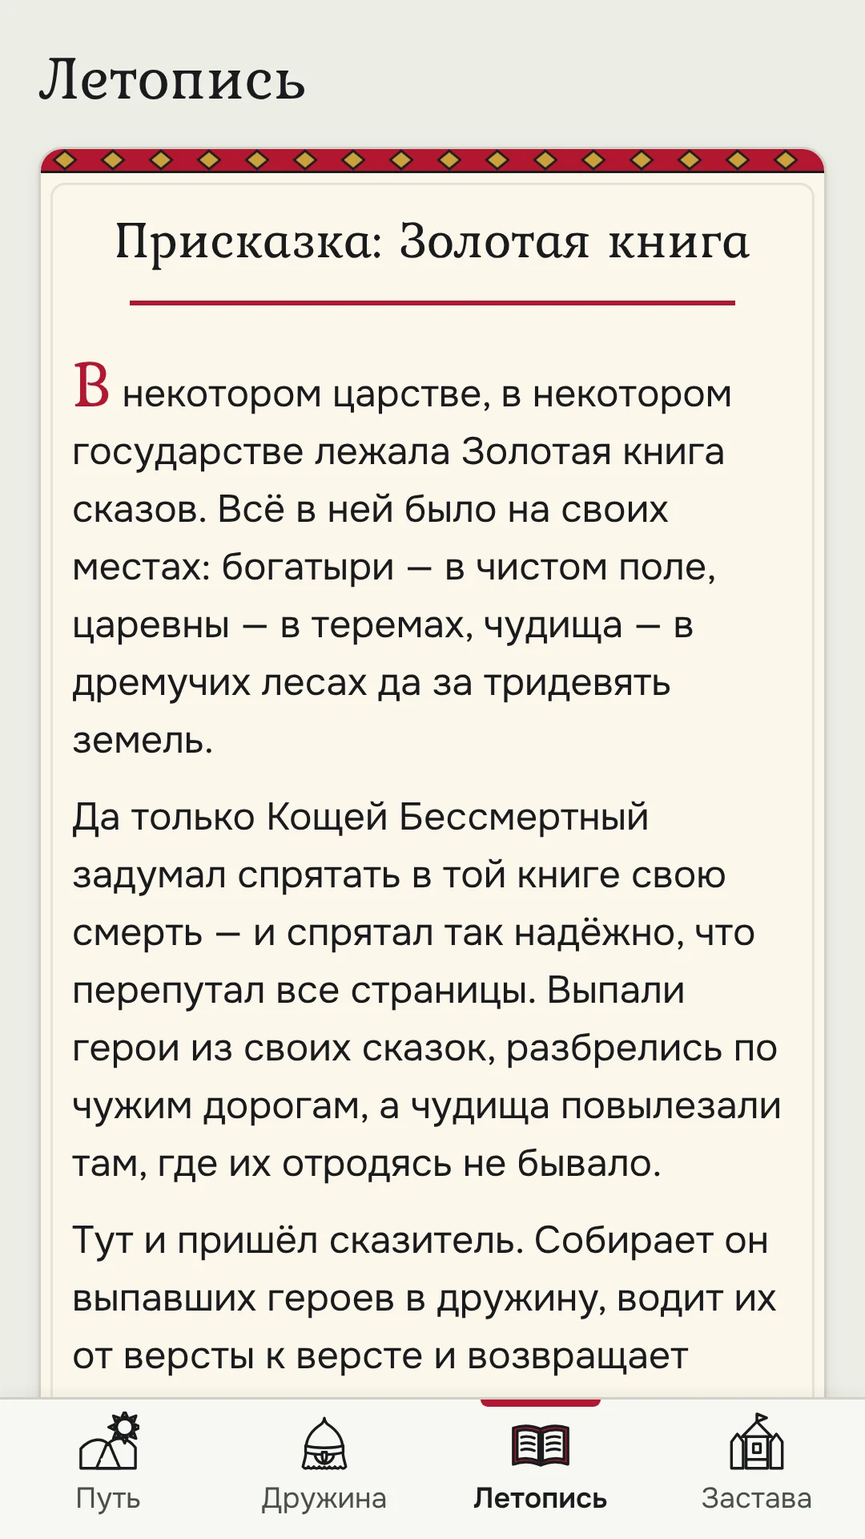
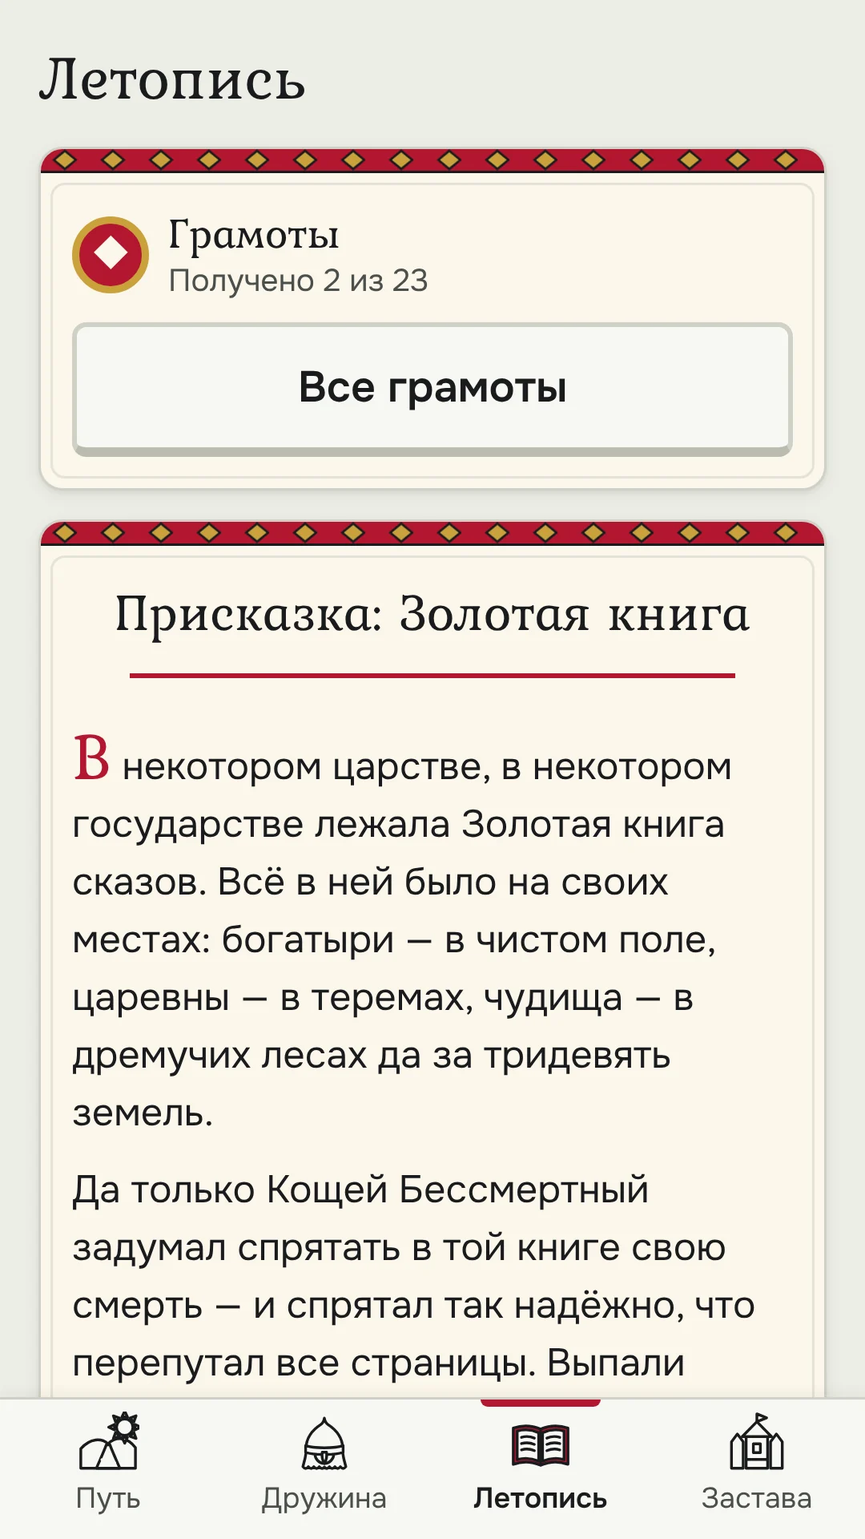
Сайт: обновления игр
= votchina: без изменений
= nardy: без изменений
= anamnez: без изменений
✓ skazy: из Nefeste/skazy@92e29ee — src/en/skazy/index.html, src/skazy/index.html, новые картинки: `skazy-07-riddle-full.webp`, `skazy-07-riddle.webp`, `skazy-09-sadko-full.webp`, `skazy-09-sadko.webp`, изменились картинки: `skazy-05-chronicle-full.webp`, `skazy-05-chronicle.webp`
= uzory: без изменений
= durak: без изменений
= bukvitsa: без изменений

Changed region(s): [[0.0306, 0.125, 0.9778, 0.9062]]

diff --git a/src/skazy/index.html b/src/skazy/index.html
@@ -17,7 +17,7 @@
 <meta property="og:image:width" content="1200">
 <meta property="og:image:height" content="630">
 <meta name="theme-color" content="#ecede6">
-<script type="application/ld+json">{"@context": "https://schema.org", "@type": "VideoGame", "name": "Сказы", "url": "https://gornitsa.games/skazy/", "description": "Неспешная ролевая игра по русским сказкам и былинам: дружина из Ильи Муромца, Василисы и Серого волка, пять минут в день. Героев не выбивают из сундуков.", "genre": "Ролевая игра", "image": "https://gornitsa.games/assets/games/skazy-og.png", "screenshot": ["https://gornitsa.games/assets/games/skazy-01-path-full.webp", "https://gornitsa.games/assets/games/skazy-02-battle-full.webp", "https://gornitsa.games/assets/games/skazy-03-raven-full.webp", "https://gornitsa.games/assets/games/skazy-04-hero-full.webp", "https://gornitsa.games/assets/games/skazy-05-chronicle-full.webp", "https://gornitsa.games/assets/games/skazy-06-zastava-full.webp"], "applicationCategory": "GameApplication", "operatingSystem": "Android", "author": {"@type": "Organization", "@id": "https://gornitsa.games/#studio", "name": "Горница", "url": "https://gornitsa.games/"}, "publisher": {"@type": "Organization", "@id": "https://gornitsa.games/#studio", "name": "Горница", "url": "https://gornitsa.games/"}, "gamePlatform": "Android", "contentRating": "6+", "inLanguage": ["ru"], "offers": {"@type": "Offer", "price": "0", "priceCurrency": "RUB", "description": "начало бесплатно, дальше — одна покупка", "availability": "https://schema.org/InStock", "url": "https://www.rustore.ru/catalog/app/games.gornitsa.skazy"}, "installUrl": "https://www.rustore.ru/catalog/app/games.gornitsa.skazy"}</script>
+<script type="application/ld+json">{"@context": "https://schema.org", "@type": "VideoGame", "name": "Сказы", "url": "https://gornitsa.games/skazy/", "description": "Неспешная ролевая игра по русским сказкам и былинам: дружина из Ильи Муромца, Василисы и Серого волка, пять минут в день. Героев не выбивают из сундуков.", "genre": "Ролевая игра", "image": "https://gornitsa.games/assets/games/skazy-og.png", "screenshot": ["https://gornitsa.games/assets/games/skazy-01-path-full.webp", "https://gornitsa.games/assets/games/skazy-02-battle-full.webp", "https://gornitsa.games/assets/games/skazy-03-raven-full.webp", "https://gornitsa.games/assets/games/skazy-04-hero-full.webp", "https://gornitsa.games/assets/games/skazy-05-chronicle-full.webp", "https://gornitsa.games/assets/games/skazy-06-zastava-full.webp", "https://gornitsa.games/assets/games/skazy-07-riddle-full.webp", "https://gornitsa.games/assets/games/skazy-09-sadko-full.webp"], "applicationCategory": "GameApplication", "operatingSystem": "Android", "author": {"@type": "Organization", "@id": "https://gornitsa.games/#studio", "name": "Горница", "url": "https://gornitsa.games/"}, "publisher": {"@type": "Organization", "@id": "https://gornitsa.games/#studio", "name": "Горница", "url": "https://gornitsa.games/"}, "gamePlatform": "Android", "contentRating": "6+", "inLanguage": ["ru"], "offers": {"@type": "Offer", "price": "0", "priceCurrency": "RUB", "description": "начало бесплатно, дальше — одна покупка", "availability": "https://schema.org/InStock", "url": "https://www.rustore.ru/catalog/app/games.gornitsa.skazy"}, "installUrl": "https://www.rustore.ru/catalog/app/games.gornitsa.skazy"}</script>
 {{HEAD}}
 </head>
 <body>
@@ -52,13 +52,15 @@
     <section class="videos" aria-label="Видео">
       <figure class="video"><a class="video-link" href="https://vkvideo.ru/video-241979396_456239019" target="_blank" rel="noopener" data-vk-oid="-241979396" data-vk-id="456239019" aria-label="Смотреть: Дружина из сказок, бой с чудищем и итог дня"><img src="/assets/games/skazy-feature.webp" width="1024" height="500" alt="" loading="lazy"><span class="video-play" aria-hidden="true"></span></a><figcaption>Дружина из сказок, бой с чудищем и итог дня · <a href="https://vkvideo.ru/video-241979396_456239019" target="_blank" rel="noopener">Открыть в VK Видео ↗</a></figcaption></figure>
     </section>
-    <section class="shots" aria-label="Снимки экрана">
+    <section class="shots shots-4" aria-label="Снимки экрана">
       <figure><a class="shot" href="/assets/games/skazy-01-path-full.webp" data-size="1080x1920"><img src="/assets/games/skazy-01-path.webp" width="540" height="960" alt="Путь: дружина на лесной дороге, из чащи выходит Серый волк, котомка и кнопка боя со словом вещего ворона"></a><figcaption>Путь</figcaption></figure>
       <figure><a class="shot" href="/assets/games/skazy-02-battle-full.webp" data-size="1080x1920"><img src="/assets/games/skazy-02-battle.webp" width="540" height="960" alt="Бой с Лихом Одноглазым: стрела Ивана-царевича раскрывает тайну чудища" loading="lazy"></a><figcaption>Бой и тайна чудища</figcaption></figure>
       <figure><a class="shot" href="/assets/games/skazy-03-raven-full.webp" data-size="1080x1920"><img src="/assets/games/skazy-03-raven.webp" width="540" height="960" alt="Перед боем: котомка, дела на сегодня, тайна Лиха Одноглазого и слово вещего ворона" loading="lazy"></a><figcaption>Вещий ворон</figcaption></figure>
       <figure><a class="shot" href="/assets/games/skazy-04-hero-full.webp" data-size="1080x1920"><img src="/assets/games/skazy-04-hero.webp" width="540" height="960" alt="Карточка Ильи Муромца: роль, здоровье, сила, крепость, быстрота и ученье" loading="lazy"></a><figcaption>Карточка героя</figcaption></figure>
-      <figure><a class="shot" href="/assets/games/skazy-05-chronicle-full.webp" data-size="1080x1920"><img src="/assets/games/skazy-05-chronicle.webp" width="540" height="960" alt="Летопись: присказка о Золотой книге и источники сказов" loading="lazy"></a><figcaption>Летопись</figcaption></figure>
+      <figure><a class="shot" href="/assets/games/skazy-05-chronicle-full.webp" data-size="1080x1920"><img src="/assets/games/skazy-05-chronicle.webp" width="540" height="960" alt="Летопись: грамоты за дела и присказка о Золотой книге" loading="lazy"></a><figcaption>Летопись</figcaption></figure>
       <figure><a class="shot" href="/assets/games/skazy-06-zastava-full.webp" data-size="1080x1920"><img src="/assets/games/skazy-06-zastava.webp" width="540" height="960" alt="Застава «Дубрава»: пятеро друзей и облава недели на Кота Баюна — урон всей заставы и награды за пороги" loading="lazy"></a><figcaption>Застава и облава</figcaption></figure>
+      <figure><a class="shot" href="/assets/games/skazy-07-riddle-full.webp" data-size="1080x1920"><img src="/assets/games/skazy-07-riddle.webp" width="540" height="960" alt="Загадка ворона: против Разбойника и Волка — пятеро из восьми героев выбраны, кнопка «В бой»" loading="lazy"></a><figcaption>Загадка ворона</figcaption></figure>
+      <figure><a class="shot" href="/assets/games/skazy-09-sadko-full.webp" data-size="1080x1920"><img src="/assets/games/skazy-09-sadko.webp" width="540" height="960" alt="Бой с Морским царём у Ильмень-озера: ладья, щуки и дружина из пяти героев" loading="lazy"></a><figcaption>Пейзажи сказов</figcaption></figure>
     </section>
 
     <article class="doc-body">
@@ -84,10 +86,12 @@
         <li>Сказы пересказаны своими словами по собраниям XIX века — сказкам Афанасьева и былинам из собраний Рыбникова и Гильфердинга. Восстановленный сказ открывается в летописи целиком.</li>
         <li>У каждого чудища — тайна из его сказки. Соловей сидит на дубе — нужен тот, кто собьёт его стрелой. Змей Горыныч жжёт задний ряд, пока его не собьёт колпак земли греческой. Кощея не одолеть, пока цела игла.</li>
         <li>Решение — в строе: кто впереди держит удар, кто сзади лечит и стреляет, кому выйти на чудище. Сказочные удары — сами или по касанию.</li>
+        <li>Каждый день — загадка ворона, одна на всех: ворон показывает врагов и восемь героев, пятеро сильнейших не одолеют. Кого взять, чтобы одолеть? Ответ проверяет сам бой, без случайности. Попыток сколько угодно, наград и серий нет.</li>
+        <li>Грамоты за дела — в летописи: тайна чудища раскрыта, бой без потерь или вопреки ворону, загадка разгадана, головоломка решена. Наград и серий нет, дела не сгорают.</li>
       </ul>
 
       <h2>Лубок и Билибин</h2>
-      <p>Чёрный контур, плоские цвета, орнамент по краю. Герои собраны кодом из частей, как бумажные куклы, и одеты в росписи: лубок, хохлому, гжель, дымковскую игрушку. Для всей семьи, 6+: никто не погибает — побитые враги разбегаются, а павший герой выходит из боя облачком.</p>
+      <p>Чёрный контур, плоские цвета, орнамент по краю. У каждого сказа — свой пейзаж, днём и ночью: дуб Соловья с гнездом, Сорочинские горы, избушка Бабы-Яги, Ильмень-озеро с ладьёй Садко, огненная Смородина с Калиновым мостом, Кощеево царство. Герои собраны кодом из частей, как бумажные куклы, и одеты в росписи: лубок, хохлому, гжель, дымковскую игрушку. Для всей семьи, 6+: никто не погибает — побитые враги разбегаются, а павший герой выходит из боя облачком.</p>
 
       <h2>С друзьями — застава</h2>
       <p>Застава — вы и друзья, до десяти человек, вход по коду или ссылке. Раз в неделю — облава на чудище: бьёте его вместе, а награду за каждый порог получает вся застава, даже тот, кто не успел. Гостинцы, помощник в строю у товарища, лента готовых фраз. Без рейтингов, войн застав и обязательных взносов. Застава — с 14 лет; одиночная игра открыта всем.</p>

diff --git a/src/en/skazy/index.html b/src/en/skazy/index.html
@@ -17,7 +17,7 @@
 <meta property="og:image:width" content="1200">
 <meta property="og:image:height" content="630">
 <meta name="theme-color" content="#ecede6">
-<script type="application/ld+json">{"@context": "https://schema.org", "@type": "VideoGame", "name": "Skazy", "url": "https://gornitsa.games/en/skazy/", "description": "An unhurried RPG of Russian fairy tales and bylinas: a party of Ilya Muromets, Vasilisa and the Grey Wolf, five minutes a day. No gacha for heroes.", "genre": "Role-playing game", "image": "https://gornitsa.games/assets/games/skazy-og-en.png", "screenshot": ["https://gornitsa.games/assets/games/skazy-01-path-full.webp", "https://gornitsa.games/assets/games/skazy-02-battle-full.webp", "https://gornitsa.games/assets/games/skazy-03-raven-full.webp", "https://gornitsa.games/assets/games/skazy-04-hero-full.webp", "https://gornitsa.games/assets/games/skazy-05-chronicle-full.webp", "https://gornitsa.games/assets/games/skazy-06-zastava-full.webp"], "applicationCategory": "GameApplication", "operatingSystem": "Android", "author": {"@type": "Organization", "@id": "https://gornitsa.games/#studio", "name": "Gornitsa", "url": "https://gornitsa.games/"}, "publisher": {"@type": "Organization", "@id": "https://gornitsa.games/#studio", "name": "Gornitsa", "url": "https://gornitsa.games/"}, "gamePlatform": "Android", "contentRating": "6+", "inLanguage": ["ru"], "offers": {"@type": "Offer", "price": "0", "priceCurrency": "RUB", "description": "free to start, then one purchase", "availability": "https://schema.org/InStock", "url": "https://www.rustore.ru/catalog/app/games.gornitsa.skazy"}, "installUrl": "https://www.rustore.ru/catalog/app/games.gornitsa.skazy"}</script>
+<script type="application/ld+json">{"@context": "https://schema.org", "@type": "VideoGame", "name": "Skazy", "url": "https://gornitsa.games/en/skazy/", "description": "An unhurried RPG of Russian fairy tales and bylinas: a party of Ilya Muromets, Vasilisa and the Grey Wolf, five minutes a day. No gacha for heroes.", "genre": "Role-playing game", "image": "https://gornitsa.games/assets/games/skazy-og-en.png", "screenshot": ["https://gornitsa.games/assets/games/skazy-01-path-full.webp", "https://gornitsa.games/assets/games/skazy-02-battle-full.webp", "https://gornitsa.games/assets/games/skazy-03-raven-full.webp", "https://gornitsa.games/assets/games/skazy-04-hero-full.webp", "https://gornitsa.games/assets/games/skazy-05-chronicle-full.webp", "https://gornitsa.games/assets/games/skazy-06-zastava-full.webp", "https://gornitsa.games/assets/games/skazy-07-riddle-full.webp", "https://gornitsa.games/assets/games/skazy-09-sadko-full.webp"], "applicationCategory": "GameApplication", "operatingSystem": "Android", "author": {"@type": "Organization", "@id": "https://gornitsa.games/#studio", "name": "Gornitsa", "url": "https://gornitsa.games/"}, "publisher": {"@type": "Organization", "@id": "https://gornitsa.games/#studio", "name": "Gornitsa", "url": "https://gornitsa.games/"}, "gamePlatform": "Android", "contentRating": "6+", "inLanguage": ["ru"], "offers": {"@type": "Offer", "price": "0", "priceCurrency": "RUB", "description": "free to start, then one purchase", "availability": "https://schema.org/InStock", "url": "https://www.rustore.ru/catalog/app/games.gornitsa.skazy"}, "installUrl": "https://www.rustore.ru/catalog/app/games.gornitsa.skazy"}</script>
 {{HEAD}}
 </head>
 <body>
@@ -52,13 +52,15 @@
     <section class="videos" aria-label="Videos">
       <figure class="video"><a class="video-link" href="https://vkvideo.ru/video-241979396_456239019" target="_blank" rel="noopener" data-vk-oid="-241979396" data-vk-id="456239019" aria-label="Watch: Tale heroes, a monster fight and the day’s end (in Russian)"><img src="/assets/games/skazy-feature-en.webp" width="1024" height="500" alt="" loading="lazy"><span class="video-play" aria-hidden="true"></span></a><figcaption>Tale heroes, a monster fight and the day’s end (in Russian) · <a href="https://vkvideo.ru/video-241979396_456239019" target="_blank" rel="noopener">Open on VK Video ↗</a></figcaption></figure>
     </section>
-    <section class="shots" aria-label="Screenshots">
+    <section class="shots shots-4" aria-label="Screenshots">
       <figure><a class="shot" href="/assets/games/skazy-01-path-full.webp" data-size="1080x1920"><img src="/assets/games/skazy-01-path.webp" width="540" height="960" alt="The road: the band on a forest road, the Grey Wolf comes out of the thicket, the travel bag and the battle button with the prophetic raven's word"></a><figcaption>The road</figcaption></figure>
       <figure><a class="shot" href="/assets/games/skazy-02-battle-full.webp" data-size="1080x1920"><img src="/assets/games/skazy-02-battle.webp" width="540" height="960" alt="Battle with One-Eyed Likho: Ivan Tsarevich's arrow reveals the monster's secret" loading="lazy"></a><figcaption>Battle and the secret</figcaption></figure>
       <figure><a class="shot" href="/assets/games/skazy-03-raven-full.webp" data-size="1080x1920"><img src="/assets/games/skazy-03-raven.webp" width="540" height="960" alt="Before the battle: the travel bag, today's tasks, Likho's secret and the prophetic raven's word" loading="lazy"></a><figcaption>The prophetic raven</figcaption></figure>
       <figure><a class="shot" href="/assets/games/skazy-04-hero-full.webp" data-size="1080x1920"><img src="/assets/games/skazy-04-hero.webp" width="540" height="960" alt="Ilya Muromets' card: role, health, strength, toughness, speed and training" loading="lazy"></a><figcaption>Hero card</figcaption></figure>
-      <figure><a class="shot" href="/assets/games/skazy-05-chronicle-full.webp" data-size="1080x1920"><img src="/assets/games/skazy-05-chronicle.webp" width="540" height="960" alt="The chronicle: the prologue about the Golden Book and the sources of the tales" loading="lazy"></a><figcaption>Chronicle</figcaption></figure>
+      <figure><a class="shot" href="/assets/games/skazy-05-chronicle-full.webp" data-size="1080x1920"><img src="/assets/games/skazy-05-chronicle.webp" width="540" height="960" alt="The chronicle: deed charters and the prologue about the Golden Book" loading="lazy"></a><figcaption>Chronicle</figcaption></figure>
       <figure><a class="shot" href="/assets/games/skazy-06-zastava-full.webp" data-size="1080x1920"><img src="/assets/games/skazy-06-zastava.webp" width="540" height="960" alt="The Dubrava outpost: five friends and the weekly hunt for Cat Bayun — the whole outpost's damage and rewards for each threshold" loading="lazy"></a><figcaption>Outpost and weekly hunt</figcaption></figure>
+      <figure><a class="shot" href="/assets/games/skazy-07-riddle-full.webp" data-size="1080x1920"><img src="/assets/games/skazy-07-riddle.webp" width="540" height="960" alt="The raven's riddle: against the Robber and the Wolf — five of eight heroes picked and the battle button" loading="lazy"></a><figcaption>The raven's riddle</figcaption></figure>
+      <figure><a class="shot" href="/assets/games/skazy-09-sadko-full.webp" data-size="1080x1920"><img src="/assets/games/skazy-09-sadko.webp" width="540" height="960" alt="A battle with the Sea Tsar by Lake Ilmen: a longship, pikes and a band of five heroes" loading="lazy"></a><figcaption>Tale landscapes</figcaption></figure>
     </section>
 
     <article class="doc-body">
@@ -83,10 +85,12 @@
       <ul>
         <li>The tales are retold in our own words from 19th-century collections — Afanasyev's folk tales and the bylinas collected by Rybnikov and Hilferding.</li>
         <li>Every monster has a secret from its tale: the Nightingale must be shot down from his oak, Zmey Gorynych stops breathing fire once the Cap of the Greek Land knocks him down, and Koschei cannot be defeated while the needle is whole.</li>
+        <li>Every day the raven sets a riddle, the same for everyone: the foes and eight heroes, and the five strongest will not win. Whom do you take to win? The battle itself checks the answer, with no randomness. Try as many times as you like; no rewards and no streaks.</li>
+        <li>Deed charters in the chronicle: a monster's secret revealed, a battle without losses or against the raven's word, a riddle or a puzzle solved. No rewards, no streaks, and deeds never expire.</li>
       </ul>
 
       <h2>Lubok and Bilibin</h2>
-      <p>Black outlines, flat colours and ornamental borders. The heroes are assembled in code from parts, like paper dolls, and dressed in folk paintings — lubok, khokhloma, gzhel and Dymkovo toys. For the whole family, ages 6+: nobody dies — beaten foes run away and a fallen hero leaves the battle in a puff of cloud.</p>
+      <p>Black outlines, flat colours and ornamental borders. Every tale has its own landscape, by day and by night: the Nightingale's oak with its nest, the Sorochinsk mountains, Baba Yaga's hut, Lake Ilmen with Sadko's longship, the fiery Smorodina with the Kalinov bridge, Koschei's kingdom. The heroes are assembled in code from parts, like paper dolls, and dressed in folk paintings — lubok, khokhloma, gzhel and Dymkovo toys. For the whole family, ages 6+: nobody dies — beaten foes run away and a fallen hero leaves the battle in a puff of cloud.</p>
 
       <h2>With friends — the outpost</h2>
       <p>An outpost is you and your friends, up to ten people, joined by a code or a link. Once a week you hunt a monster together, and every threshold rewards the whole outpost — even those who didn’t make it in time. Gifts, a helper hero and a feed of ready-made phrases — no leaderboards, no outpost wars, no mandatory dues. The outpost is for ages 14 and up; the single-player game is open to everyone.</p>
